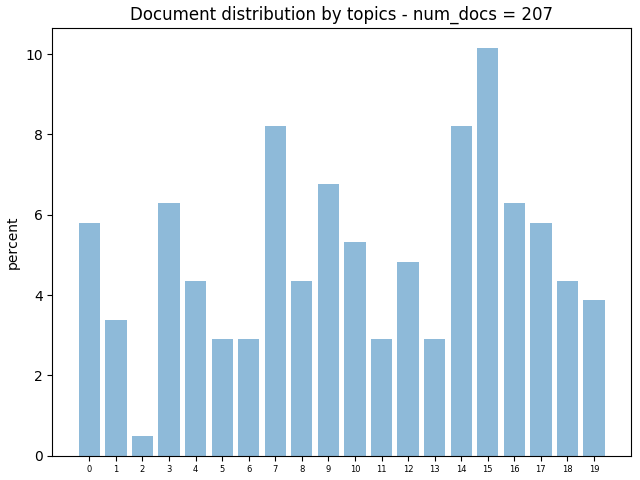
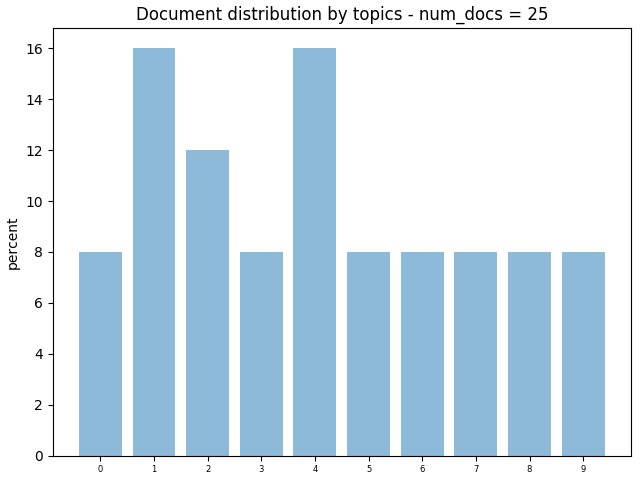
fix error when run lda with len document equal zero

diff --git a/master.py b/master.py
@@ -114,7 +114,7 @@ class master:
         trending_titles = {}
         domains = []; events = {}
         for i, label in enumerate(self.counter.keys()):
-            # if label != 0: continue # topic 'Chinh tri Xa hoi'
+            if label != 6: continue # topic 'Chinh tri Xa hoi'
             domain = my_map.label2name[label]
             ndocs = self.counter[label]
             event = self.config_event_detection(domain, ndocs)
@@ -133,7 +133,7 @@ class master:
 
 
     def config_event_detection(self, domain, ndocs):
-        if ndocs < 10:
+        if ndocs < 20:
             return None
         if ndocs > 2000:
             event = event_detection(domain, os.path.join(self.text_clf.result_dir, domain),
@@ -162,9 +162,12 @@ class master:
         elif 100 < ndocs and ndocs <= 300:
             event = event_detection(domain, os.path.join(self.text_clf.result_dir, domain),
                                     root_dir='event_detection', num_topics=15, max_iter=1300)
-        else:
+        elif 50 < ndocs and ndocs <= 100:
             event = event_detection(domain, os.path.join(self.text_clf.result_dir, domain),
                                     root_dir='event_detection', num_topics=10, max_iter=1300)
+        else:
+            event = event_detection(domain, os.path.join(self.text_clf.result_dir, domain),
+                                    root_dir='event_detection', num_topics=5, max_iter=1300)
         return event
 
 

diff --git a/event_detection/create_lda_data.py b/event_detection/create_lda_data.py
@@ -28,7 +28,7 @@ def build_vocab(dataset, output_vocab, root_dir, title_map):
     if len(contents) < 100:
         vectorizer.min_df = 1
     if len(contents) < 50:
-        vectorizer.max_df = 1
+        vectorizer.max_df = 1.0
     vectorizer.fit(contents)
     with open(output_vocab, 'w', encoding='utf-8') as f:
         vocab = {w:i for i, w in enumerate(vectorizer.vocabulary_.keys())}
